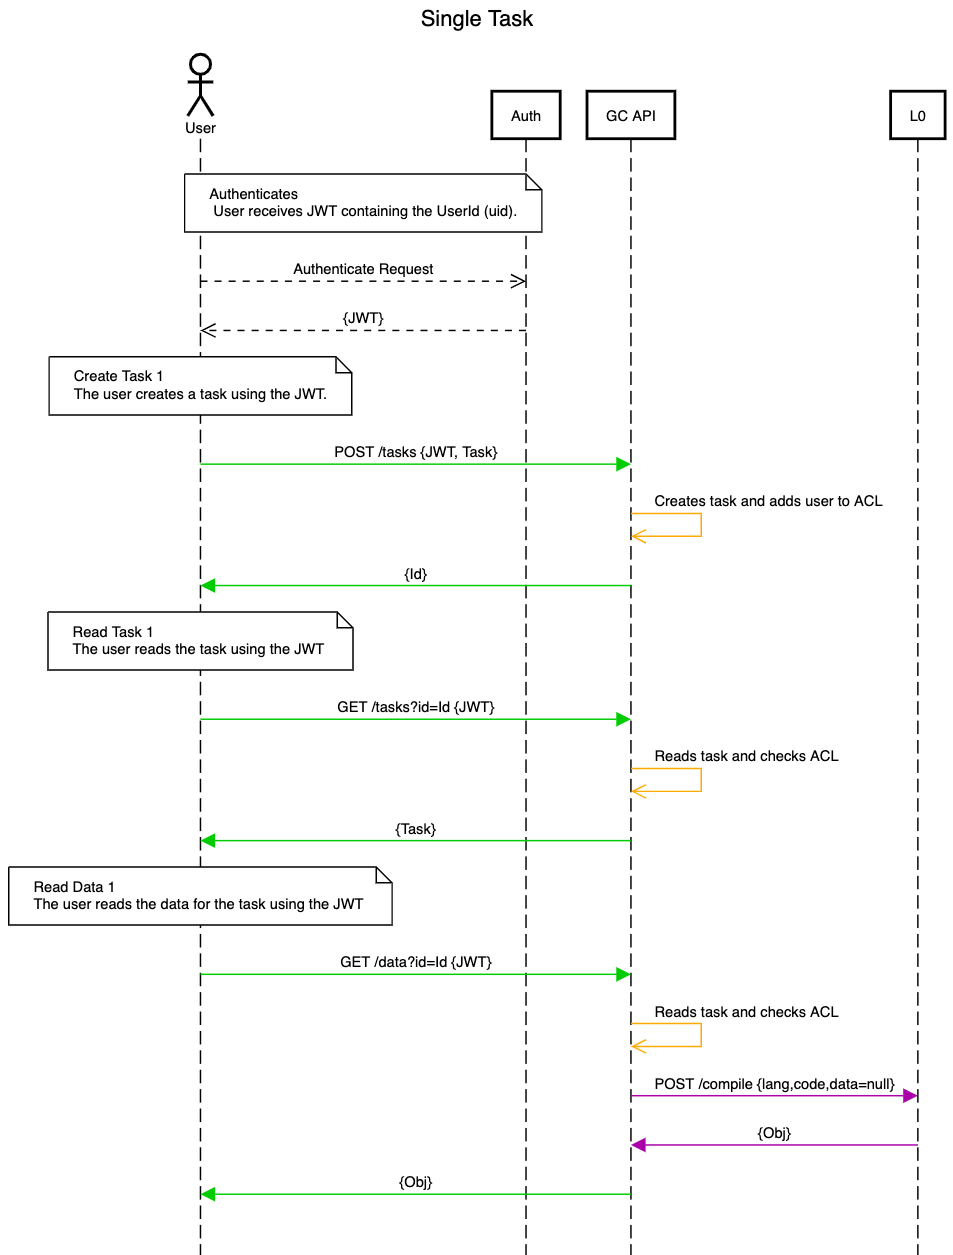
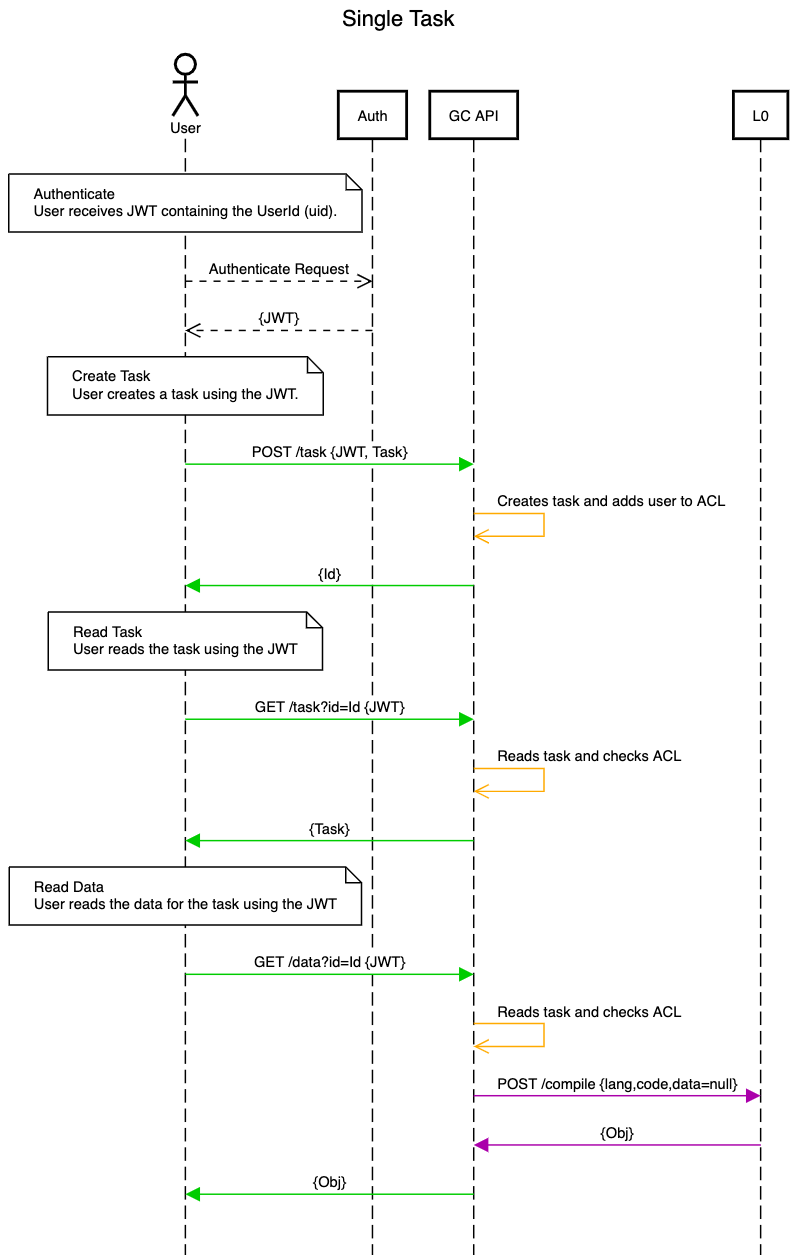
fix: tasks -> task

diff --git a/docs/authorization.md b/docs/authorization.md
@@ -38,3 +38,14 @@ A user can read a task that user creates
 
 ### Multiple Tasks Unauthorizaed
 <img src="authorization_multiple_tasks_unauthorized.png" />
+
+### Multiple Users, Same Task
+<img src="authorization_multiple_users_same_task.png" />
+
+## How to update these diagrams
+
+1. Go to https://sequencediagram.org/
+1. Open the diagram to be modified
+1. Modify the diagram
+1. Save the diagram
+1. Export the png
